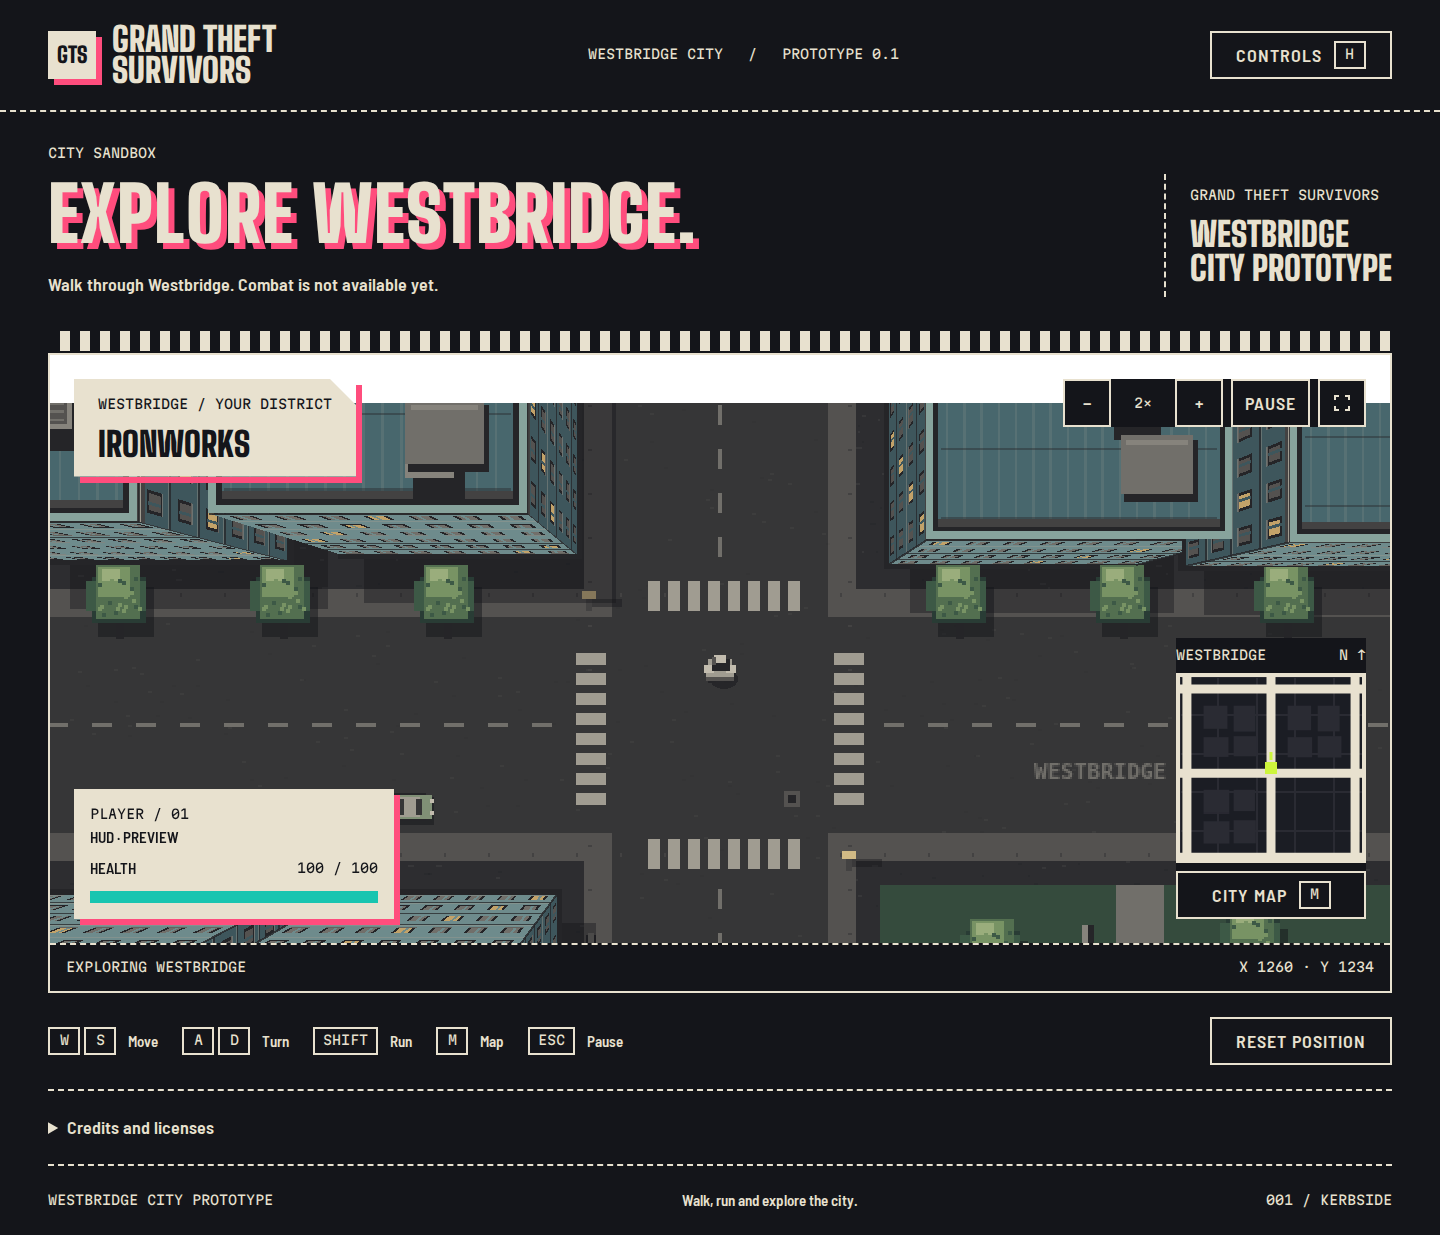
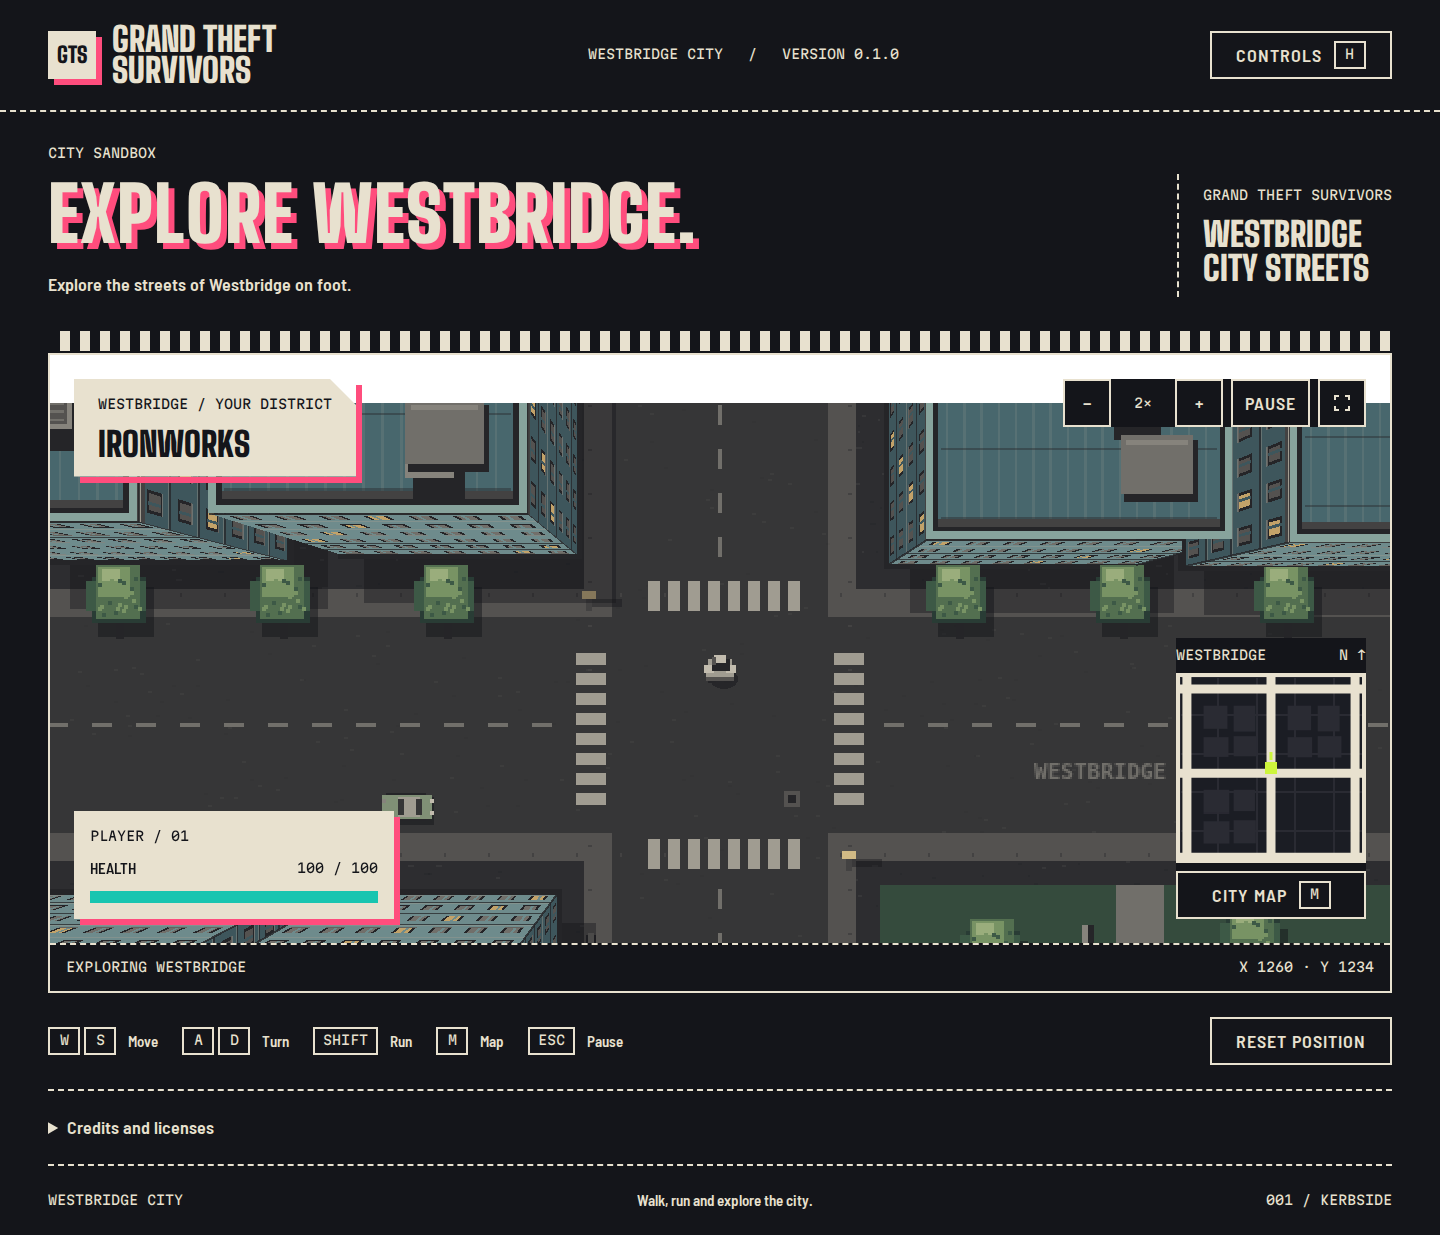
fix(copy): remove prototype and preview labels

diff --git a/src/shared/intl/en.ts b/src/shared/intl/en.ts
@@ -5,13 +5,13 @@ export const en = {
   'brand.first': 'GRAND THEFT',
   'brand.last': 'SURVIVORS',
   edition: 'WESTBRIDGE CITY',
-  prototype: 'PROTOTYPE 0.1',
+  'release.version': 'VERSION 0.1.0',
   'controls.title': 'Controls',
   'intro.eyebrow': 'CITY SANDBOX',
   'intro.title': 'EXPLORE WESTBRIDGE.',
-  'intro.description': 'Walk through Westbridge. Combat is not available yet.',
+  'intro.description': 'Explore the streets of Westbridge on foot.',
   'intro.stamp.first': 'WESTBRIDGE',
-  'intro.stamp.last': 'CITY PROTOTYPE',
+  'intro.stamp.last': 'CITY STREETS',
   'game.label': 'Grand Theft Survivors game',
   'game.instructions': 'City. Use W/S to move, A/D to turn, Shift to run.',
   location: 'WESTBRIDGE / YOUR DISTRICT',
@@ -24,9 +24,8 @@ export const en = {
   'pause.button': 'Pause',
   'fullscreen.label': 'Fullscreen',
   'player.identity': 'PLAYER / 01',
-  'hud.preview': 'HUD · PREVIEW',
   'hud.health': 'HEALTH',
-  'hud.health.label': 'Preview player health',
+  'hud.health.label': 'Player health',
   city: 'WESTBRIDGE',
   'map.north': 'N ↑',
   'map.mini': 'City minimap',
@@ -62,7 +61,7 @@ export const en = {
   'credits.google': 'Google Inc. Copyright notice supplied with the font.',
   'credits.license': 'SIL OFL 1.1 license',
   'credits.unchanged': 'This game uses unmodified fonts.',
-  'footer.first': 'WESTBRIDGE CITY PROTOTYPE',
+  'footer.first': 'WESTBRIDGE CITY',
   'footer.description': 'Walk, run and explore the city.',
   'footer.edition': '001 / KERBSIDE',
   'separator.slash': '/',
@@ -87,7 +86,7 @@ export const en = {
   'credits.barlow.copyright': 'Copyright 2017 The Barlow Project Authors.',
   'credits.martian': 'Martian Mono',
   'credits.martian.copyright': 'Copyright 2020 The Martian Mono Project Authors.',
-  'page.title': 'Grand Theft Survivors city prototype',
+  'page.title': 'Grand Theft Survivors',
   'district.old-town': 'Old Town',
   'district.greenfield': 'Greenfield',
   'help.title': 'CONTROLS',

diff --git a/tests/game.spec.ts b/tests/game.spec.ts
@@ -12,12 +12,12 @@ test('boots without browser errors and renders the playable city', async ({ page
   await page.reload();
   await page.waitForFunction(() => window.__gameDebug?.isReady());
   await expect(page.locator('#game canvas')).toBeVisible();
-  await expect(page).toHaveTitle('Grand Theft Survivors city prototype');
+  await expect(page).toHaveTitle('Grand Theft Survivors');
   expect((await state(page)).buildings).toBeGreaterThan(100);
   await page.evaluate(() => document.fonts.ready);
   await page.waitForTimeout(300);
   expect(errors).toEqual([]);
-  await page.screenshot({ path: 'docs/prototype-desktop.png' });
+  await page.screenshot({ path: 'docs/game-desktop.png' });
 });
 
 test('tank controls: forward, backward, rotation, and faster running', async ({ page }) => {
@@ -127,7 +127,7 @@ test('mobile layout fits and the viewport resizes', async ({ page }) => {
   expect(await page.evaluate(() => document.documentElement.scrollWidth)).toBe(390);
   const canvas = await page.locator('#game canvas').boundingBox();
   expect(canvas!.width).toBeLessThan(390);
-  await page.screenshot({ path: 'docs/prototype-mobile.png' });
+  await page.screenshot({ path: 'docs/game-mobile.png' });
 });
 
 test('high roofs expand in perspective and react to camera movement without moving colliders', async ({

diff --git a/src/ui/shell.html b/src/ui/shell.html
@@ -3,7 +3,7 @@
     ><span class="brand-mark" aria-hidden="true">{{brand.short}}</span
     ><span>{{brand.first}}<br /><span>{{brand.last}}</span></span></a
   >
-  <p class="kb-meta edition">{{edition}} <span>{{separator.slash}}</span> {{prototype}}</p>
+  <p class="kb-meta edition">{{edition}} <span>{{separator.slash}}</span> {{release.version}}</p>
   <button class="kb-btn kb-btn--secondary" id="help-button">
     {{controls.title}} <kbd>{{key.help}}</kbd>
   </button>
@@ -57,8 +57,7 @@
     </div>
     <div class="player-card kb-hud">
       <div class="player-identity">
-        <span class="kb-meta">{{player.identity}}</span
-        ><span class="hud-preview">{{hud.preview}}</span>
+        <span class="kb-meta">{{player.identity}}</span>
       </div>
       <div class="health-label">
         <span>{{hud.health}}</span><span class="kb-meta">{{hud.health.initial}}</span>

diff --git a/tests/pages.smoke.ts b/tests/pages.smoke.ts
@@ -11,7 +11,7 @@ test('the Pages build loads assets, dialogs and licenses at the repository path'
   });
   await page.goto('./');
   await expect(page.locator('#game canvas')).toBeVisible();
-  await expect(page).toHaveTitle('Grand Theft Survivors city prototype');
+  await expect(page).toHaveTitle('Grand Theft Survivors');
   await page.evaluate(() => document.fonts.ready);
   expect(await page.evaluate(() => window.__gameDebug)).toBeUndefined();
   for (const asset of await page.locator('script[src], link[rel="stylesheet"]').all()) {

diff --git a/src/ui/styles/game.css b/src/ui/styles/game.css
@@ -64,9 +64,6 @@
   flex-direction: column;
   gap: var(--kb-space-1);
 }
-.hud-preview {
-  font: 600 var(--kb-text-label) var(--kb-font-ui);
-}
 .health-label {
   display: flex;
   justify-content: space-between;

diff --git a/docs/DESIGN.md b/docs/DESIGN.md
@@ -4,13 +4,13 @@ Updated 2026-10-24. This document separates implemented behavior from the owner'
 
 ## Implemented baseline
 
-Grand Theft Survivors is a browser prototype with an original top-down Westbridge city and Kerbside interface. Seed 2042 generates a fixed 6 × 6 grid, 2520 units per side, with Old Town, Ironworks and Greenfield material palettes. These are visual prototype districts, not implemented factions.
+Grand Theft Survivors is a browser game with an original top-down Westbridge city and Kerbside interface. Seed 2042 generates a fixed 6 × 6 grid, 2520 units per side, with Old Town, Ironworks and Greenfield material palettes. These district palettes are separate from the planned factions.
 
 The player starts at (1260, 1234). W/S moves forward/backward at 105 units/s; Shift runs forward at 176; A/D turns at 4.8 rad/s. Arrow keys also work. The camera keeps a fixed world orientation and starts at 2× zoom. Collision uses building footprints and world bounds. Cars/trees are scenery without collision.
 
 Height is a 2D projection: `P = C + (p − C) × H / (H − z)`, with virtual camera height 500 and building heights 95/130/165. Roofs expand about 1.23/1.35/1.49×, with dynamic projected facades. It is not an isometric or 3D engine. Roof motion does not move collision footprints.
 
-Minimap, full map, help, pause, fullscreen request, zoom and position reset work. Health is a labeled preview. There are no enemies, damage, weapons, progression, active vehicles or sound. All player-facing text is English and comes from the localization catalog. Material colors restore a subdued city palette while preserving Kerbside UI roles; see `THEMING.md`.
+Minimap, full map, help, pause, fullscreen request, zoom and position reset work. The health display shows a fixed value until combat is implemented. There are no enemies, damage, weapons, progression, active vehicles or sound. All player-facing text is English and comes from the localization catalog. Material colors restore a subdued city palette while preserving Kerbside UI roles; see `THEMING.md`.
 
 ## Requested direction, awaiting detailed review
 
@@ -26,6 +26,6 @@ Rare wandering parody groups may appear near the player, flee when attacked and 
 
 ## Historical context
 
-The initial prototype used olive procedural art; the first Kerbside pass replaced it with exclusively neutral materials. Version 0.3.0 adds subdued physical material colors without changing movement, geometry or UI accents. Earlier JavaScript prototype files were replaced by strict TypeScript feature modules; current architecture is described in `ARCHITECTURE.md`.
+The first version used olive procedural art; the first Kerbside pass replaced it with exclusively neutral materials. Version 0.3.0 adds subdued physical material colors without changing movement, geometry or UI accents. Earlier JavaScript files were replaced by strict TypeScript feature modules; current architecture is described in `ARCHITECTURE.md`.
 
 Reference screenshots in `sources/` are research only. No Rockstar/DMA sprites, logos or Vampire Survivors art are included in the game.

diff --git a/docs/ART-PIPELINE.md b/docs/ART-PIPELINE.md
@@ -1,8 +1,8 @@
 # Phaser art pipeline
 
-Reviewed 2026-10-24 against the Phaser 3.90 prototype.
+Reviewed 2026-10-24 against the game running on Phaser 3.90.
 
-## How our prototype renders
+## How the game renders
 
 | Responsibility                                                  | Implementation                                                           | When it runs                                                  |
 | --------------------------------------------------------------- | ------------------------------------------------------------------------ | ------------------------------------------------------------- |
@@ -43,7 +43,7 @@ Use a hybrid pipeline. Retain procedural road layout, simple surfaces, projectio
 
 Keep the projected walls unless measurements justify replacing them. An atlas of roof details and repeated facade modules is a possible later optimization; a flat full-building sprite cannot reproduce our current camera-dependent projection. Measure facade CPU time and texture switches before deciding how to optimize them.
 
-The current ground texture exceeds 2048 px on a side and uses roughly 24.2 MiB for one uncompressed RGBA copy alone. This is acceptable for the present tested desktop prototype but should not become the multi-map design. Query device texture limits and use bounded ground chunks or tiles for larger/mobile maps. Many unique roof textures also deserve measurement before content expands. PNG compression reduces download size, not uncompressed GPU memory.
+The current ground texture exceeds 2048 px on a side and uses roughly 24.2 MiB for one uncompressed RGBA copy alone. This is acceptable for the current desktop version but should not become the multi-map design. Query device texture limits and use bounded ground chunks or tiles for larger/mobile maps. Many unique roof textures also deserve measurement before content expands. PNG compression reduces download size, not uncompressed GPU memory.
 
 Before importing external graphics, define: pixel/world scale, anchors, frame names, animation timing, atlas padding/extrusion, filtering and maximum atlas dimensions; collision footprints separate from artwork; stable asset IDs and loading-error behavior; licenses and editable source ownership. Current `pixelArt: true` and disabled antialiasing favor crisp small rasters; a smoother illustration direction would need an explicit rendering decision.
 

diff --git a/docs/BACKLOG.md b/docs/BACKLOG.md
@@ -19,8 +19,8 @@ Created 2026-10-24. These tasks are ready for design review. Implementation has 
 
 | Order | Task                                          | Depends on                           | First reviewable deliverable                                                |
 | ----- | --------------------------------------------- | ------------------------------------ | --------------------------------------------------------------------------- |
-| 1     | GTS-01 Audio foundation                       | Current prototype                    | User-gesture unlock, UI sounds and material footsteps                       |
-| 2     | GTS-02 Map definitions and switching          | Current prototype                    | Current Westbridge loaded through a typed map definition; repeatable reload |
+| 1     | GTS-01 Audio foundation                       | Current version                      | User-gesture unlock, UI sounds and material footsteps                       |
+| 2     | GTS-02 Map definitions and switching          | Current version                      | Current Westbridge loaded through a typed map definition; repeatable reload |
 | 3     | GTS-03A Combat and damage foundation          | GTS-02                               | Pistol, deliberate provocation, one civilian and one attacker               |
 | 4     | GTS-04A Living population and hostility       | GTS-03A                              | Sidewalk movement, independent faction response and readable hostility      |
 | 5     | GTS-03B XP, upgrades and weapon content       | GTS-03A, GTS-04A                     | Three real upgrade choices and a small usable weapon roster                 |

diff --git a/README.md b/README.md
@@ -1,16 +1,16 @@
 # Grand Theft Survivors
 
-A top-down city game prototype built with Phaser 3.90, TypeScript and Vite 7. Explore Westbridge on foot, with building collisions, a following camera and a Kerbside interface.
+A top-down city game built with Phaser 3.90, TypeScript and Vite 7. Explore Westbridge on foot, with building collisions, a following camera and a Kerbside interface.
 
 [Play in your browser](https://jakubfalenczyk.github.io/grand-theft-survivors/). A keyboard is required to move.
 
-![Westbridge prototype](docs/prototype-desktop.png)
+![Westbridge streets](docs/game-desktop.png)
 
 ## Current version
 
 Westbridge has a seeded 2520 × 2520 layout with three district palettes, parks and parked cars. Roofs and facades shift with the camera to show building height. The interface includes a minimap, city map, pause, controls, zoom and position reset.
 
-Combat, enemies, XP, bosses, moving traffic and sound are planned. The health bar is a preview. Cars and trees are scenery without collision.
+Combat, enemies, XP, bosses, moving traffic and sound are planned. The health display currently shows a fixed value. Cars and trees are scenery without collision.
 
 The planned game uses player actions to raise hostility with three gangs and the police. Hostile factions send reinforcements and bosses. See the [design](docs/DESIGN.md) and [backlog](docs/BACKLOG.md) for the agreed rules and proposals.
 

diff --git a/AGENTS.md b/AGENTS.md
@@ -7,6 +7,10 @@
 - If Chromium automation cannot verify a behavior, use real Chrome on Windows through an available extension or plugin. Choose the verification method for the scenario. Headless limitations do not rule out other available methods.
 - Write repository content in English, including documentation, agent instructions, comments, identifiers, test fixtures and screenshots. Add future translations through the localization catalog.
 
+## Public copy
+
+- Describe the game as a game in public descriptions and interface text. Do not label it a prototype or preview. Keep current feature limitations in development documentation.
+
 ## GitHub and commits
 
 - Make each commit cover one task or coherent feature. Include its related code, tests and documentation together.

diff --git a/docs/ARCHITECTURE.md b/docs/ARCHITECTURE.md
@@ -1,6 +1,6 @@
 # Grand Theft Survivors architecture
 
-Implemented prototype baseline, updated 2026-10-24. Future systems are proposals in `BACKLOG.md`, not existing APIs.
+Current game architecture, updated 2026-10-24. Future systems are proposals in `BACKLOG.md`, not existing APIs.
 
 ## Stack and boundaries
 

diff --git a/GLOSSARY.md b/GLOSSARY.md
@@ -1,6 +1,6 @@
 # Grand Theft Survivors
 
-Terms used in the prototype and planned game. Planned gameplay terms do not imply an implemented feature.
+Terms used in the game and planned features. Planned gameplay terms do not imply an implemented feature.
 
 ## City
 
